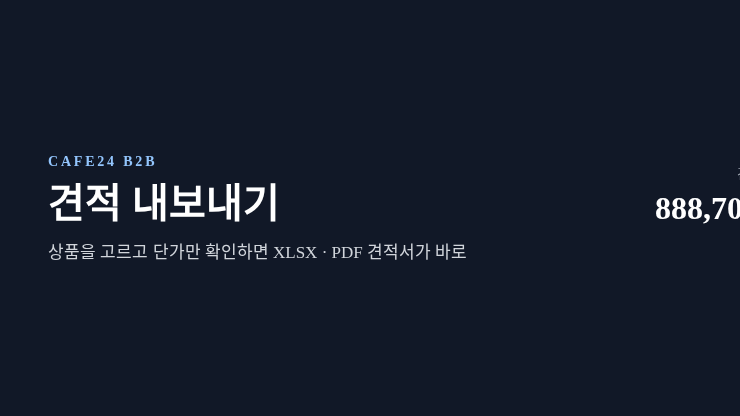
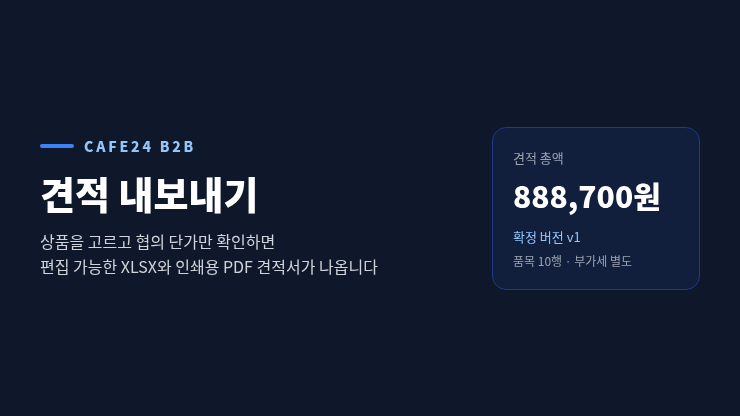
fix: 아이콘·배너 생성 결함 수정
사용자가 아이콘·배너가 단색으로만 보인다고 알려 와 원인을 확인했다.

- 아이콘: font-size를 퍼센트로 준 탓에 상속 폰트(16px) 기준으로 계산되어 글자가
  2~5px로 그려졌다. 목표 크기에 비례한 px로 바꾸고, 100px에서는 부제를 뺐다
- 배너: 인라인 style 안 font-family의 큰따옴표가 속성을 끊어 box-sizing이 무시됐고
  폭이 820px로 커져 오른쪽 카드가 잘렸다. 폰트를 body로 옮기고 box-sizing을 페이지
  CSS로 지정해 740px 안에 들어오게 했다
- 재발 방지: 생성 시 폭을 측정해 규격 초과면 실패시키고, 실제 폭·오른쪽 끝을 출력

diff --git a/QA.md b/QA.md
@@ -176,6 +176,17 @@
 | 114 | 상세 설명 HTML | 이미지 5장 + alt 텍스트, 폭 1240px 지정 | 통과 (파일 확인) |
 | 115 | 등록 문구 길이 | 제품명 23B, 설명 129B(≤200), 헤드라인 46B(≤100), 문구 5개(각 ≤200B) | 통과 (바이트 계산) |
 | 116 | FAQ 가져오기 파일 | 샘플 양식(`제목`/`내용`)과 동일 형식 12건, xlsx·CSV 두 가지 | 통과 (파일 재파싱 확인) |
+| 117 | 아이콘·배너 생성물 육안 확인 | 100px에서도 글자가 읽히고, 배너가 규격 안에 들어옴 | 통과 (재생성 후 확인) |
+
+### 등록물 생성기에서 고친 결함 (2026-09-16)
+
+사용자가 아이콘·배너가 **단색으로만 보인다**고 알려 와 확인한 결과 생성기 결함 2건이 있었다.
+
+| 증상 | 원인 | 수정 |
+|---|---|---|
+| 아이콘이 단색으로 보임 | `font-size:15%`·`34%`는 컨테이너가 아니라 상속 폰트(16px) 기준이라 글자가 2~5px로 그려짐 | 목표 크기에 비례한 px로 지정하고, 100px에서는 부제를 생략 |
+| 배너 오른쪽 카드가 잘림 | 인라인 `style="…"` 안의 `font-family:"Noto Sans KR"` **큰따옴표가 속성을 끊어** 뒤의 `box-sizing:border-box`가 무시됨 → 폭이 820px로 커짐 | 폰트는 `body`에 걸고 인라인 속성에서 제거, `box-sizing`을 페이지 CSS로 이동 |
+| 재발 방지 | 잘림이 조용히 지나감 | 생성 시 폭을 측정해 규격을 넘으면 **생성을 실패**시키고, 출력에 실제 폭·오른쪽 끝을 기록 |
 
 ## 자동 테스트 실행 결과
 

diff --git a/README.md b/README.md
@@ -232,6 +232,9 @@ QA.md                           수동 검증표와 자동 검증 결과
 | `store-assets/banner-740x416.png`(+`@2x`) | 상단 배너 |
 | `public/store/detail-01..05.png` | 심사용 상세 설명 이미지(1240px, 카페24 폭 제한 준수) |
 
+아이콘·배너 이미지는 생성 시 규격(아이콘 크기, 배너 740px)을 넘으면 생성을 실패시킨다. 폰트·크기를 인라인
+`style` 안에서 큰따옴표로 쓰면 속성이 끊겨 레이아웃이 깨지므로, 폰트는 `body`에 건다.
+
 재생성: `node store-assets/render-detail-images.mjs`(서버 불필요),
 `node store-assets/render-screenshots.mjs`(참고용, 앱 실행 필요),
 `node store-assets/render-registration-images.mjs`(등록 규격 PC·모바일, 앱 실행 + `DATABASE_URL` 필요),
